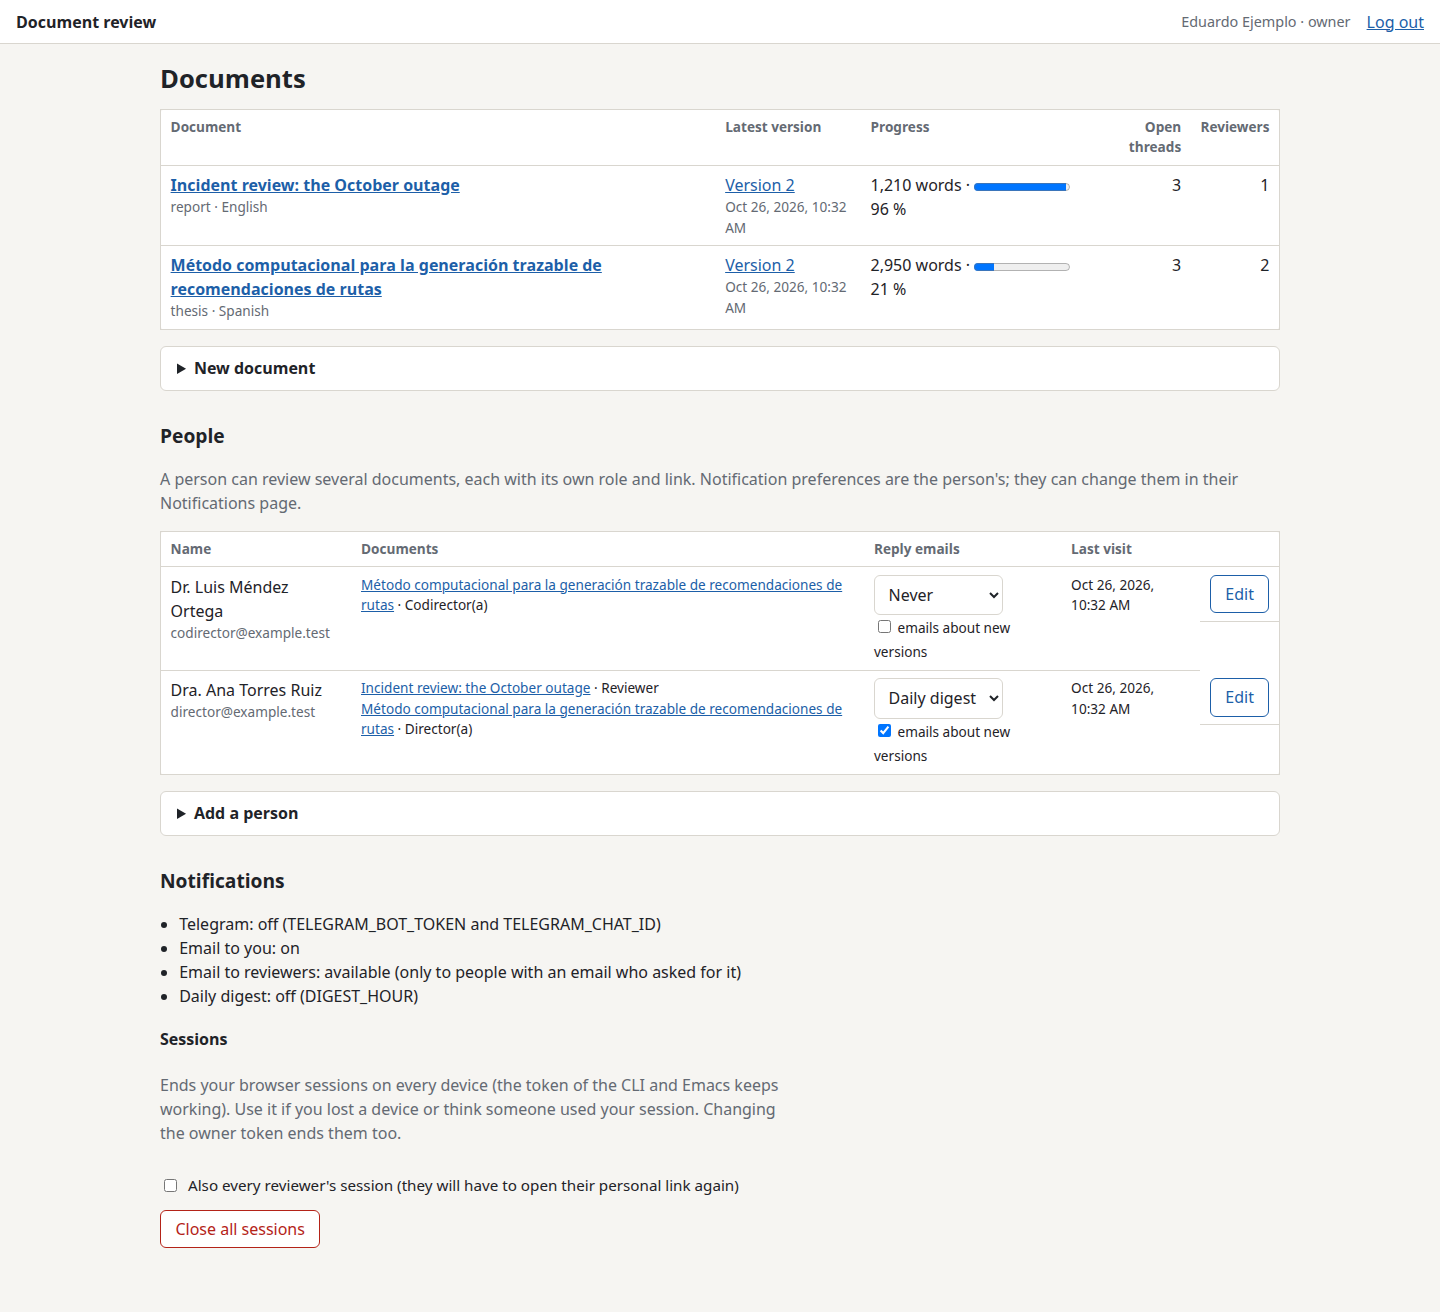
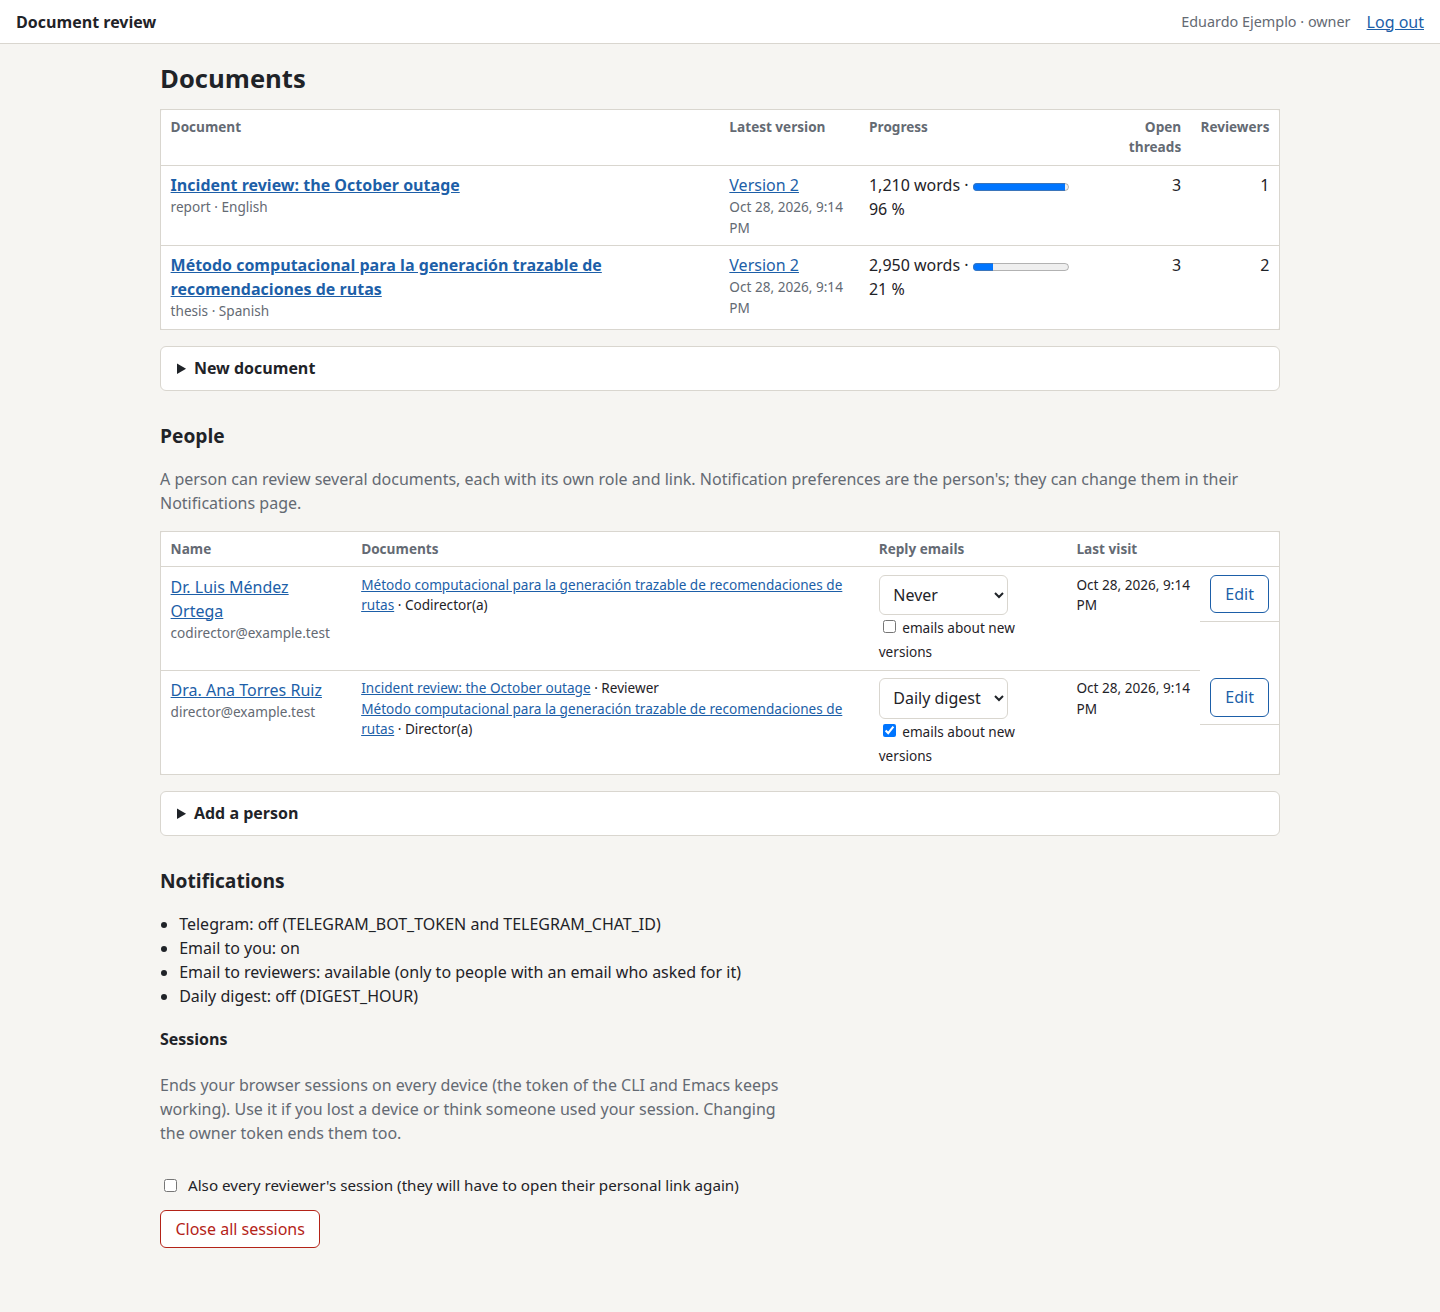
Release 0.3.0: chart, app and Emacs package versions; screenshots regenerated (with a person's page)

diff --git a/docs/usage.md b/docs/usage.md
@@ -171,6 +171,8 @@ link**, shown **only once**; the server keeps only a hash.
 
 ### People
 
+![A person's page](images/11-person.png)
+
 Each person has a page (click their name on the dashboard or in a document's
 reviewers, or «Edit person»), with:
 
